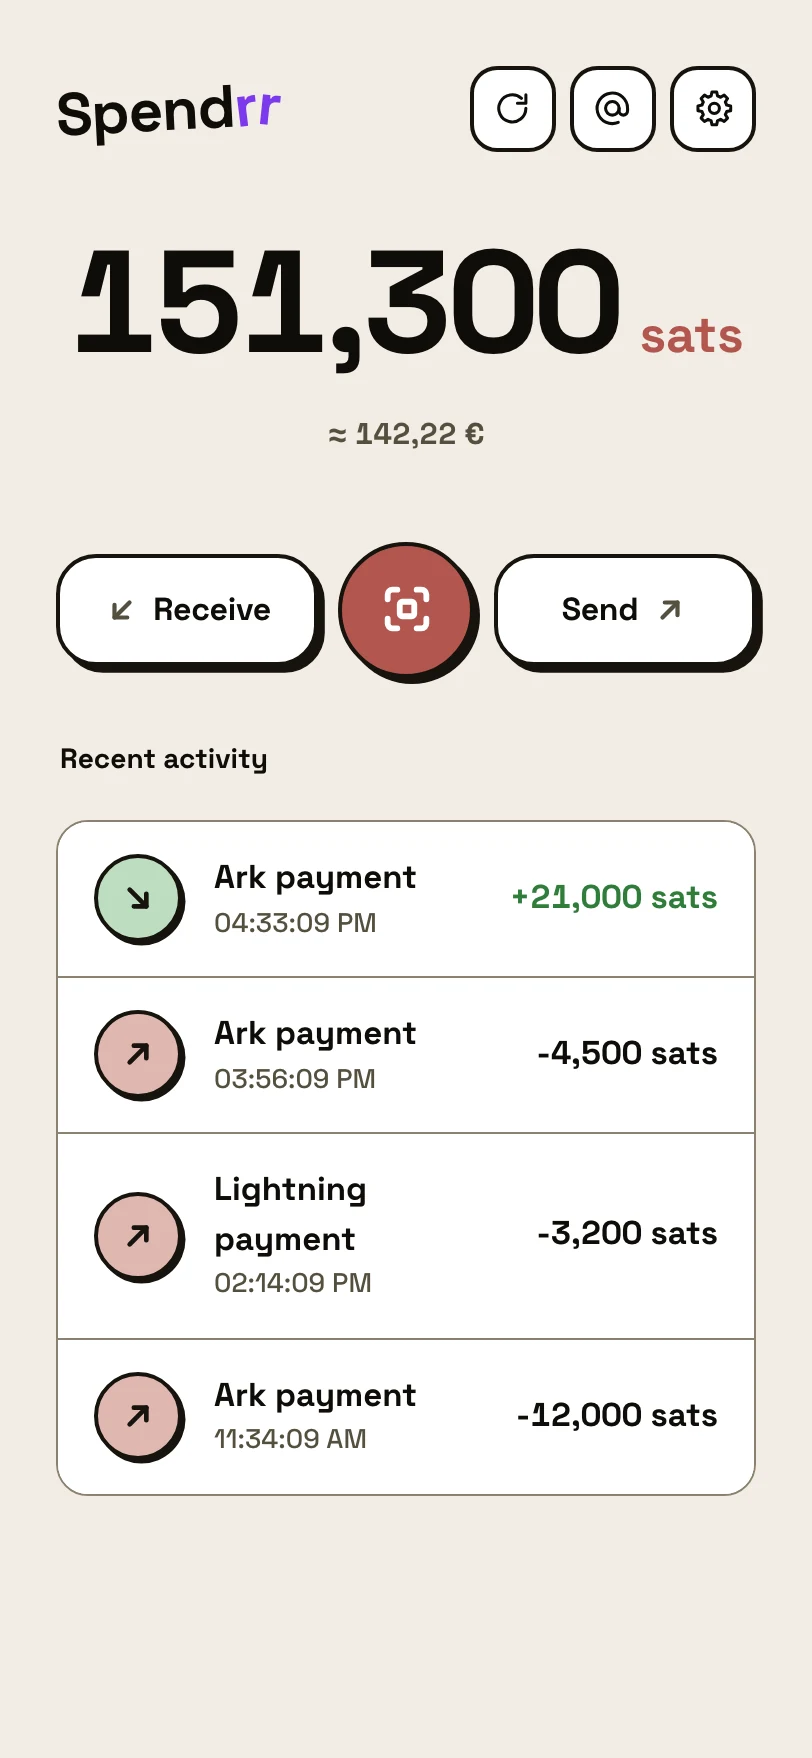
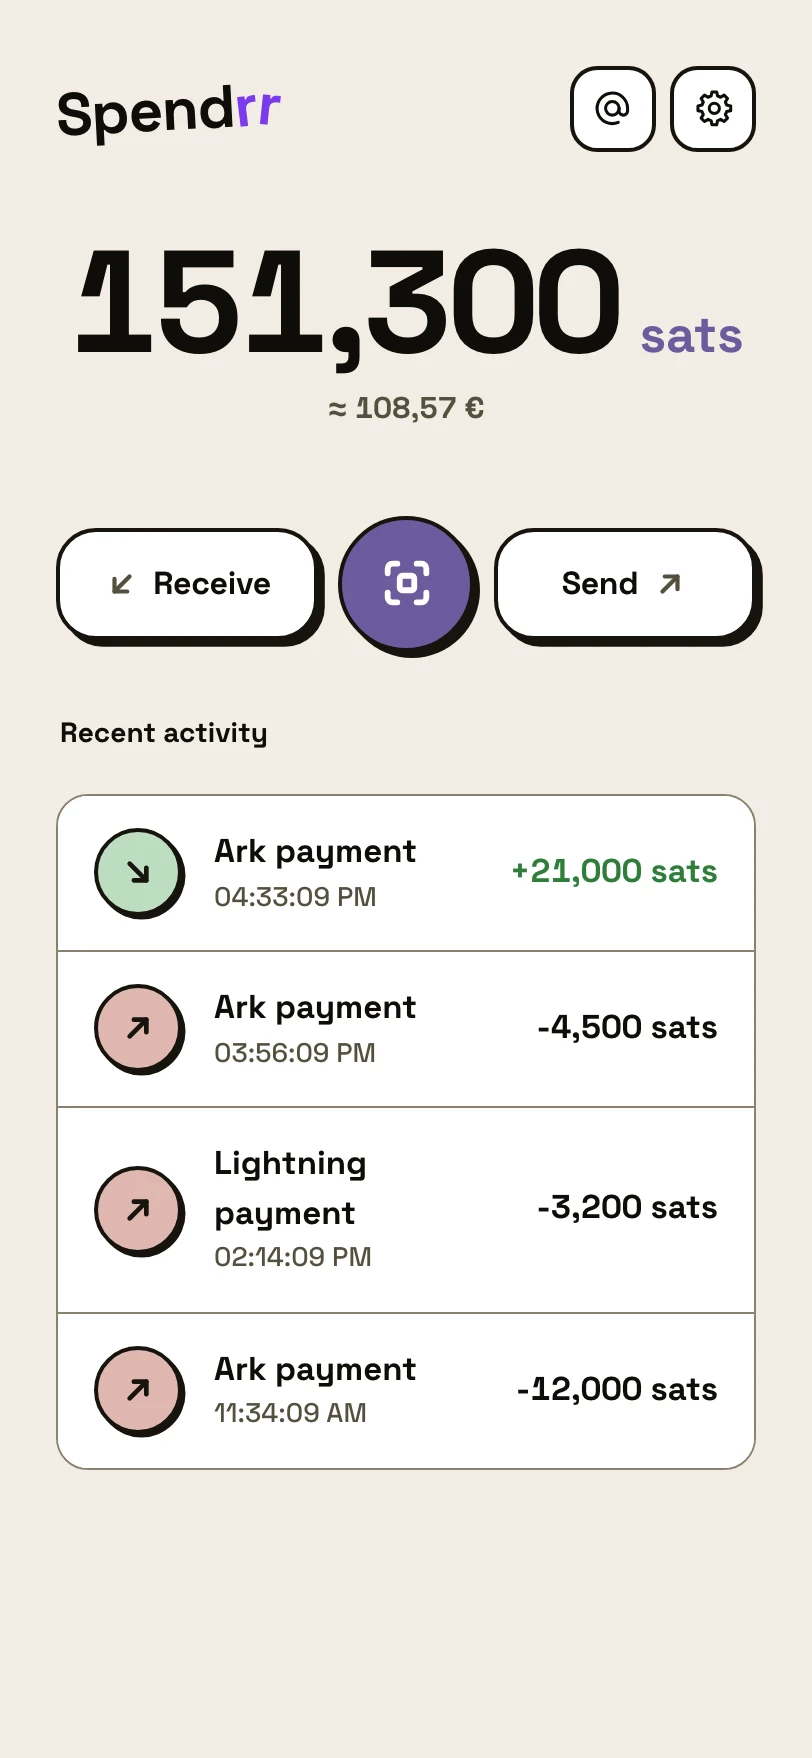
Retake README and /learn screenshots in purple

diff --git a/public/learn.css b/public/learn.css
@@ -32,7 +32,7 @@
   --text: #55503f;
   --text-h: #0f0d09;
   --text-dim: color-mix(in srgb, var(--text) 60%, var(--bg));
-  --accent: #b2564f;
+  --accent: #6d5a9e;
   --accent-ink: #ffffff;
   --accent-2: #7c3aed;
   --plus: #2f8a4e;
